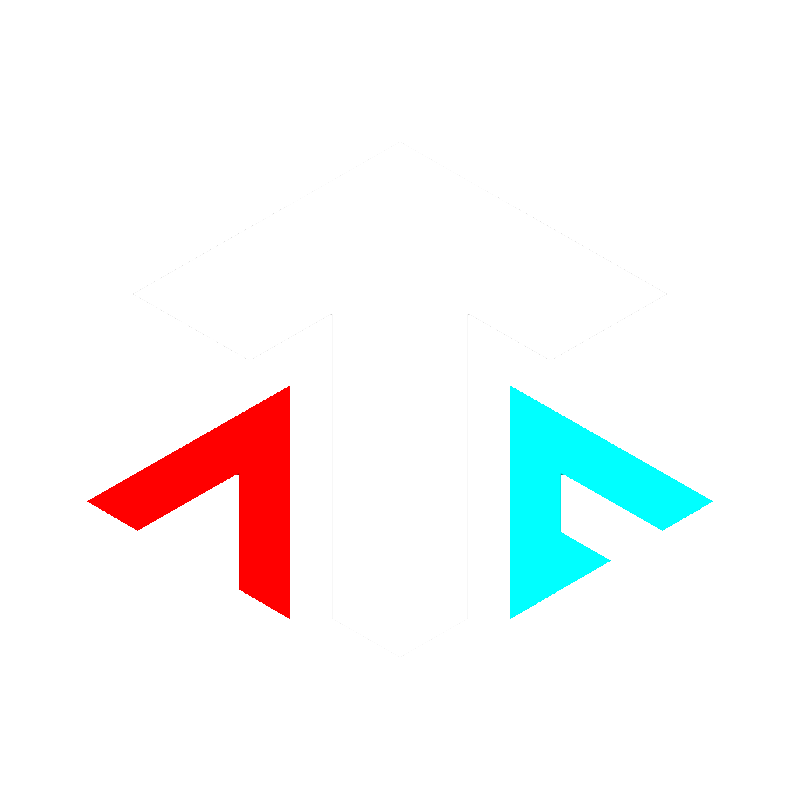
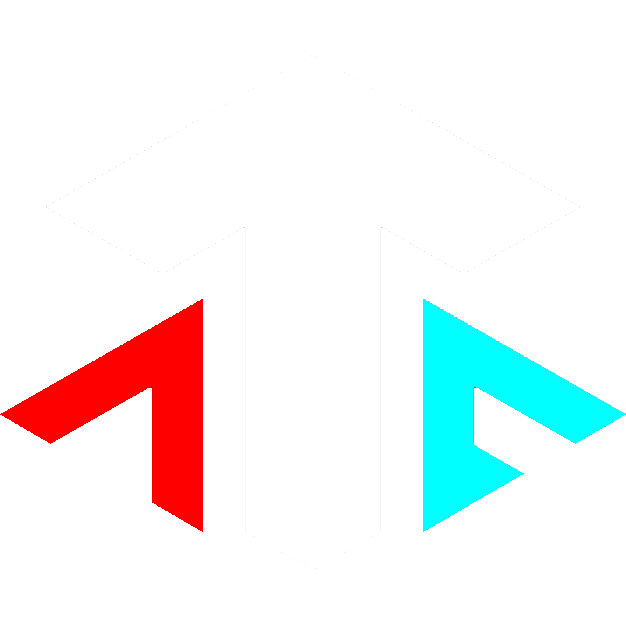
Changed branding to Turbo Music Added empty playlist art

Changed region(s): [[0.6374, 0.4856, 1.0, 0.8498], [0.0, 0.4856, 0.3642, 0.8498]]

diff --git a/src/components/common/PlaylistItem.jsx b/src/components/common/PlaylistItem.jsx
@@ -25,7 +25,12 @@ const PlaylistItem = ({ playlistData, channelData, updateGuildPlaylists }) => {
                 <div className="playlist-item-inner">
                     <div className="spotify-playlist-info">
                         <div className="icon">
-                            <img src={playlistData?.images?.[0]?.url || ""} />
+                            <img
+                                src={
+                                    playlistData?.images?.[0]?.url ||
+                                    "/empty_playlist.png"
+                                }
+                            />
                         </div>
                         <div className="text">
                             <span className="title">{playlistData.name}</span>

diff --git a/src/App.jsx b/src/App.jsx
@@ -18,12 +18,12 @@ function App() {
                     className="logo"
                     style={{
                         margin: "-10px",
-                        width: "80px",
-                        height: "80px",
+                        width: "70px",
+                        height: "70px",
                     }}
                 >
                     <img
-                        src="/spotibot_transparent_center.png"
+                        src="/turbo.png"
                         style={{ width: "100%", height: "100%" }}
                     />
                 </div>

diff --git a/src/components/common/PlaylistCombobox.jsx b/src/components/common/PlaylistCombobox.jsx
@@ -47,7 +47,10 @@ const PlaylistCombobox = ({ playlists = [], onChange }) => {
                     leftSection={
                         selected?.images?.[0]?.url ? (
                             <Avatar
-                                src={selected?.images?.[0]?.url || ""}
+                                src={
+                                    selected?.images?.[0]?.url ||
+                                    "/empty_playlist.png"
+                                }
                                 size="sm"
                                 radius="0"
                             />

diff --git a/src/components/common/MiniLinkView.jsx b/src/components/common/MiniLinkView.jsx
@@ -5,7 +5,7 @@ const MiniLinkView = ({ playlist, channel }) => {
         <div className="mini-link-view">
             <div className="playlist-mini">
                 <img
-                    src={playlist?.images?.[0]?.url || ""}
+                    src={playlist?.images?.[0]?.url || "/empty_playlist.png"}
                     alt=""
                     className="playlist-icon"
                 />

diff --git a/src/components/common/UnlinkPlaylistModal.jsx b/src/components/common/UnlinkPlaylistModal.jsx
@@ -62,7 +62,7 @@ const UnlinkPlaylistModal = ({
                         marginBottom: "-5px",
                     }}
                 >
-                    Unlink a Playlist?
+                    Unlink Playlist?
                 </Title>
                 <Text>
                     Are you sure you want to disconnect this playlist? Tracks

diff --git a/index.html b/index.html
@@ -4,7 +4,7 @@
         <meta charset="UTF-8" />
         <link rel="icon" type="image/ico" href="/favicon.ico" />
         <meta name="viewport" content="width=device-width, initial-scale=1.0" />
-        <title>Spotibot</title>
+        <title>Turbo Music</title>
     </head>
     <body>
         <div id="root"></div>

diff --git a/README.md b/README.md
@@ -1,6 +1,6 @@
-# Spotibot Frontend
+# Turbo Music Frontend
 
-Spotibot is a Discord bot that allows users to connect Discord channels to Spotify playlists, automatically adding tracks sent to the channel to the playlist. Server playlists are configured through this frontend React application.
+Turbo Music is a Discord bot that allows users to connect Discord channels to Spotify playlists, automatically adding tracks sent to the channel to the playlist. Server playlists are configured through this frontend React application.
 
 ## Folder Structure
 
